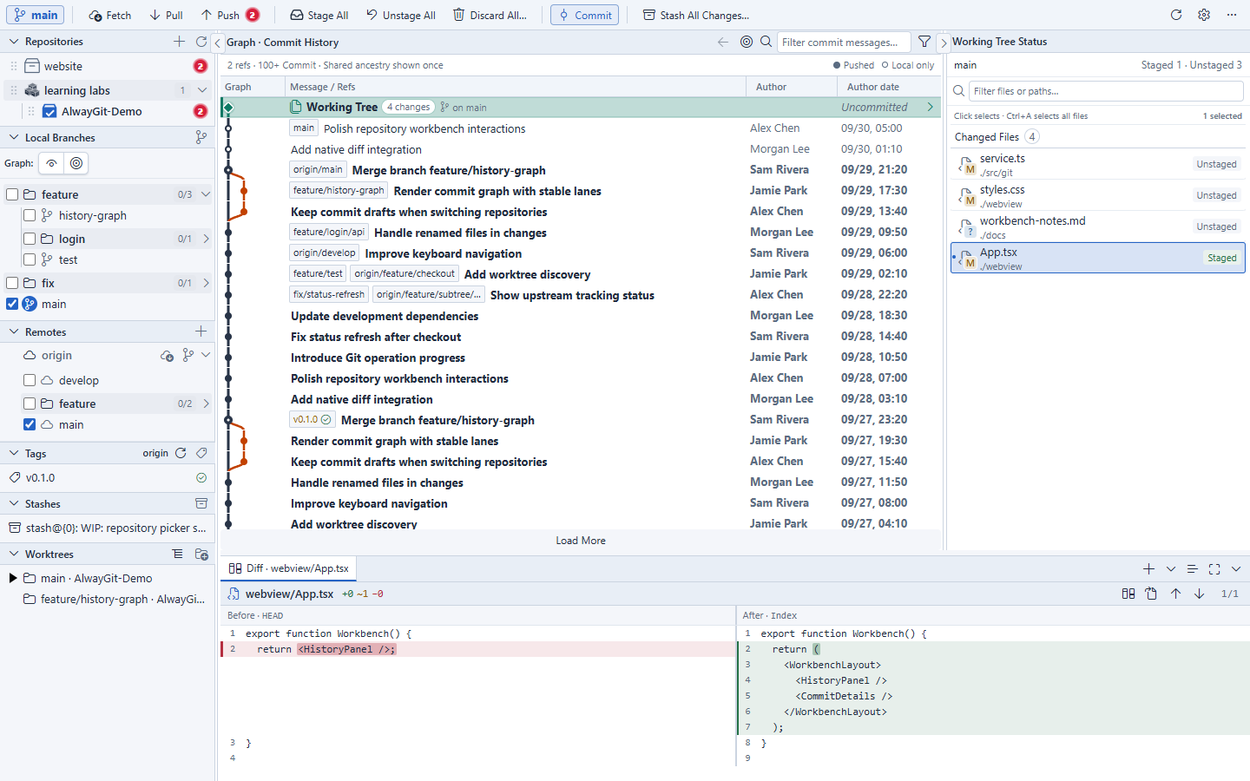
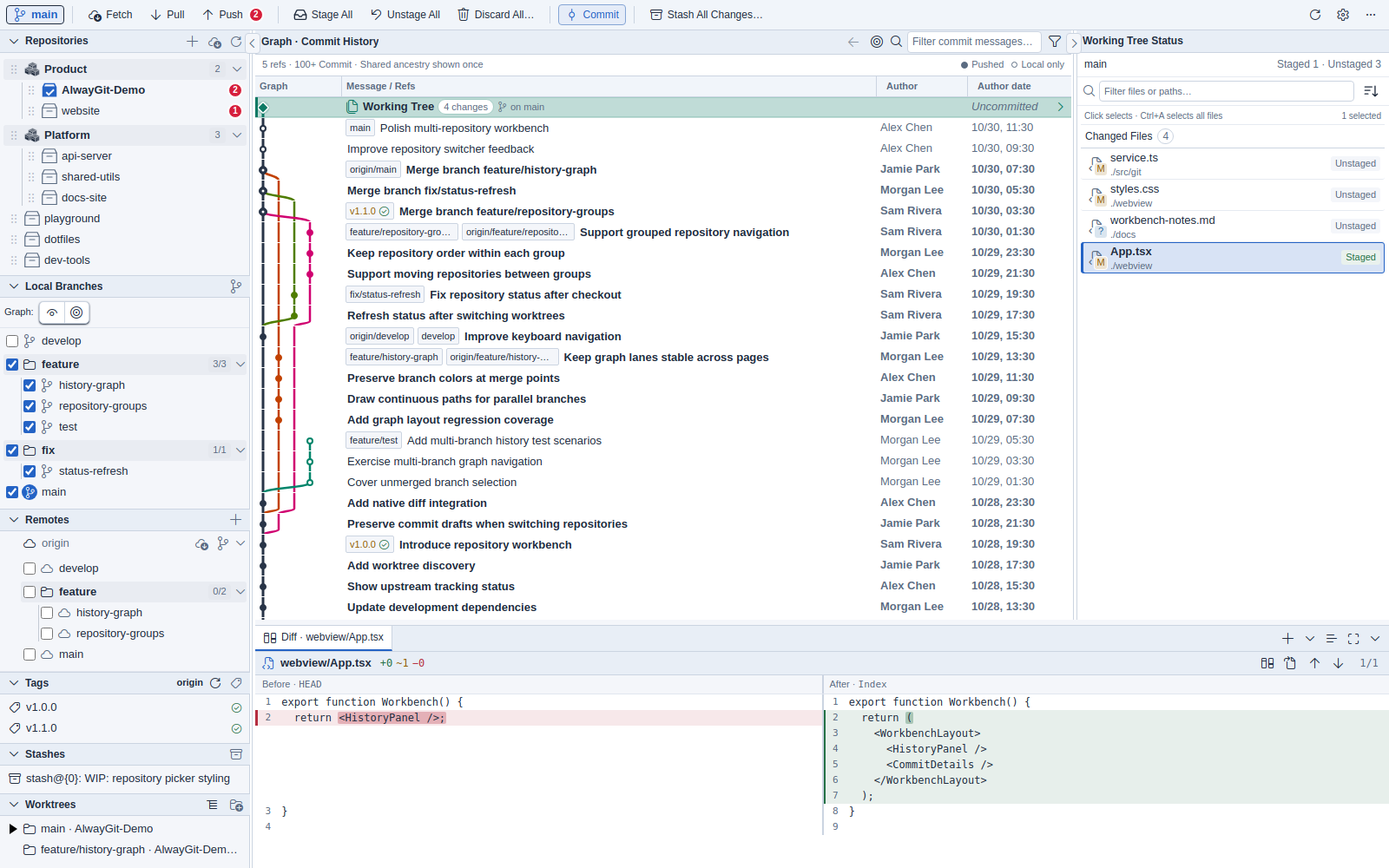
docs: 丰富多仓库与并行分支演示截图

diff --git a/webview/demo.ts b/webview/demo.ts
@@ -41,7 +41,10 @@ import {
 } from '../src/protocol/workbench-host';
 
 /** Construct sample state only when the explicit Demo transport is used. */
-export function createDemoRequest(emit: (event: HostMessage) => void) {
+export function createDemoRequest(
+  emit: (event: HostMessage) => void,
+  options: { showcase?: boolean } = {},
+) {
   let appliedLocation: string | undefined;
   const noRemoteDemo = new URLSearchParams(location.search).get('noRemote') === '1';
   const rebasePlans = new Map<string, RebasePlan>();
@@ -217,21 +220,178 @@ export function createDemoRequest(emit: (event: HostMessage) => void) {
     commonDir: 'D:\\Examples\\website\\.git',
     name: 'website',
   };
+  // Opt-in documentation scene: keep ordinary Demo operations and their fixtures stable.
+  const repositories: Repository[] = [repo, website];
+  if (options.showcase) {
+    repo.collectionIds = ['product'];
+    website.collectionIds = ['product'];
+    for (const name of [
+      'api-server',
+      'shared-utils',
+      'docs-site',
+      'playground',
+      'dotfiles',
+      'dev-tools',
+    ]) {
+      const root = `D:\\Examples\\${name}`;
+      repositories.push({
+        id: `demo-${name}`,
+        name,
+        root,
+        commonDir: root + '\\.git',
+        ...(['api-server', 'shared-utils', 'docs-site'].includes(name)
+          ? { collectionIds: ['platform'] }
+          : {}),
+      });
+    }
+    // Overlapping feature work keeps a visible parallel region. A short fix and
+    // unmerged work use separate bases instead of turning the graph into serial loops.
+    const paths = [
+      [0, 16, 3, 9, 6, 11, 12, 15, 18],
+      [1, 4, 7, 13, 15],
+      [2, 5, 8, 18],
+      [10, 14, 11],
+    ];
+    for (const path of paths)
+      for (let index = 0; index < path.length - 1; index++)
+        commits[path[index]].parents = [commits[path[index + 1]].oid];
+    commits[3].parents.push(commits[1].oid);
+    commits[9].parents.push(commits[10].oid);
+    commits[6].parents.push(commits[2].oid);
+    const pendingTests = [
+      'Exercise multi-branch graph navigation',
+      'Cover unmerged branch selection',
+    ].map((subject, index) => ({
+      ...commits[17],
+      oid: oid(180 + index),
+      parents: [index === 0 ? oid(181) : commits[12].oid],
+      subject,
+      pushed: false,
+    }));
+    commits[17].parents = [pendingTests[0].oid];
+    commits.push(...pendingTests);
+    const titles = [
+      'Polish multi-repository workbench',
+      'Keep graph lanes stable across pages',
+      'Support grouped repository navigation',
+      'Merge branch feature/history-graph',
+      'Preserve branch colors at merge points',
+      'Keep repository order within each group',
+      'Merge branch feature/repository-groups',
+      'Draw continuous paths for parallel branches',
+      'Support moving repositories between groups',
+      'Merge branch fix/status-refresh',
+      'Fix repository status after checkout',
+      'Improve keyboard navigation',
+      'Add native diff integration',
+      'Add graph layout regression coverage',
+      'Refresh status after switching worktrees',
+      'Preserve commit drafts when switching repositories',
+      'Improve repository switcher feedback',
+      'Add multi-branch history test scenarios',
+      'Introduce repository workbench',
+    ];
+    titles.forEach((subject, index) => {
+      commits[index].subject = subject;
+      commits[index].pushed = index !== 0 && index !== 16 && index !== 17;
+    });
+    // Align timestamps with the topological display order, including merge parents.
+    orderHistory(commits, [commits[0].oid, commits[17].oid]).forEach((commit, index) => {
+      commit.timestamp = 1793331000 - index * 7200;
+    });
+    const refs = (demoSnapshot.refs = demoSnapshot.refs.filter(
+      (ref) =>
+        ref.name !== 'feature/login/api' &&
+        (ref.kind !== 'remote' || ['origin/main', 'origin/develop'].includes(ref.name)),
+    ));
+    Object.assign(
+      refs.find((ref) => ref.name === 'feature/history-graph')!,
+      {
+        oid: commits[1].oid,
+        upstream: 'origin/feature/history-graph',
+      },
+    );
+    refs.find((ref) => ref.name === 'feature/test')!.oid = commits[17].oid;
+    refs.find((ref) => ref.name === 'fix/status-refresh')!.oid = commits[10].oid;
+    refs.find((ref) => ref.name === 'origin/main')!.oid = commits[3].oid;
+    refs.find((ref) => ref.name === 'origin/develop')!.oid = commits[11].oid;
+    Object.assign(
+      refs.find((ref) => ref.name === 'v0.1.0')!,
+      {
+        name: 'v1.0.0',
+        fullName: 'refs/tags/v1.0.0',
+        oid: commits[18].oid,
+        refOid: commits[18].oid,
+      },
+    );
+    refs.push(
+      {
+        name: 'develop',
+        fullName: 'refs/heads/develop',
+        kind: 'local',
+        oid: commits[11].oid,
+        upstream: 'origin/develop',
+      },
+      {
+        name: 'feature/repository-groups',
+        fullName: 'refs/heads/feature/repository-groups',
+        kind: 'local',
+        oid: commits[2].oid,
+        upstream: 'origin/feature/repository-groups',
+      },
+      {
+        name: 'origin/feature/history-graph',
+        fullName: 'refs/remotes/origin/feature/history-graph',
+        kind: 'remote',
+        oid: commits[1].oid,
+      },
+      {
+        name: 'origin/feature/repository-groups',
+        fullName: 'refs/remotes/origin/feature/repository-groups',
+        kind: 'remote',
+        oid: commits[2].oid,
+      },
+      {
+        name: 'v1.1.0',
+        fullName: 'refs/tags/v1.1.0',
+        kind: 'tag',
+        oid: commits[6].oid,
+        refOid: commits[6].oid,
+      },
+    );
+    demoSnapshot.worktrees[1].head = commits[1].oid;
+  }
   const publishedTags = new Map<string, Record<string, string>>();
   const demoStores: Record<
     string,
     { snapshot: Snapshot; commits: Commit[]; saved: Map<string, Snapshot['changes']> }
   > = Object.fromEntries(
-    [repo, website].map((repository) => [
+    repositories.map((repository, index) => [
       repository.id,
       {
         snapshot: {
           ...structuredClone(demoSnapshot),
           repository,
+          ...(options.showcase && index > 0
+            ? {
+                head: commits[index === 1 ? 16 : 3].oid,
+                ahead: index === 1 ? 1 : 0,
+                changes: index % 2 ? structuredClone(demoSnapshot.changes).slice(1, 2) : [],
+                refs: demoSnapshot.refs.map((ref) => ({
+                  ...ref,
+                  ...(ref.kind === 'local' && ref.name === 'main'
+                    ? { oid: commits[index === 1 ? 16 : 3].oid }
+                    : {}),
+                })),
+              }
+            : {}),
           remotes: ['origin'],
           worktrees: demoSnapshot.worktrees.map((tree, i) => ({
             ...tree,
             path: i ? repository.root + '-graph' : repository.root,
+            ...(options.showcase && index > 0 && i === 0
+              ? { head: commits[index === 1 ? 16 : 3].oid }
+              : {}),
           })),
         },
         commits: structuredClone(commits),
@@ -311,8 +471,18 @@ export function createDemoRequest(emit: (event: HostMessage) => void) {
       delete store.snapshot.upstream;
       delete store.snapshot.pushTarget;
     }
-  const demoCollections: RepositoryCollection[] = [];
-  let demoOrder: RepositoryOrder | undefined;
+  const demoCollections: RepositoryCollection[] = options.showcase
+    ? [
+        { id: 'product', name: 'Product' },
+        { id: 'platform', name: 'Platform' },
+      ]
+    : [];
+  let demoOrder: RepositoryOrder | undefined = options.showcase
+    ? {
+        root: ['collection:product', 'collection:platform'],
+        collections: {},
+      }
+    : undefined;
   const storedResetMode = localStorage.getItem('alwaygit.demo-defaultResetMode');
   const storedPullStrategy = localStorage.getItem('alwaygit.demo-defaultPullStrategy');
   const storedConcurrency = Number(localStorage.getItem('alwaygit.demo-batchFetchConcurrency'));
@@ -573,7 +743,7 @@ export function createDemoRequest(emit: (event: HostMessage) => void) {
           }
         : effectiveDemoOperationSettings();
     }
-    if (method === 'repositories') return [repo, website];
+    if (method === 'repositories') return repositories;
     if (method === 'pickRepositoryDirectory') return 'D:\\Examples';
     if (method === 'discoverRepositories') {
       const scanId = (payload as { scanId: string }).scanId;
@@ -606,7 +776,7 @@ export function createDemoRequest(emit: (event: HostMessage) => void) {
     if (method === 'repositoryCollections') return demoCollections;
     if (method === 'repositoryOrder' || method === 'reorderRepository') {
       demoOrder = reconcileRepositoryOrder(
-        groupRepositories([repo, website]),
+        groupRepositories(repositories),
         demoCollections,
         demoOrder,
       );
@@ -623,12 +793,12 @@ export function createDemoRequest(emit: (event: HostMessage) => void) {
     if (method === 'updateRepositoryMemberships' || method === 'moveRepositoryRows') {
       // Preserve the old order before changing memberships so new occurrences append consistently.
       demoOrder = reconcileRepositoryOrder(
-        groupRepositories([repo, website]),
+        groupRepositories(repositories),
         demoCollections,
         demoOrder,
       );
       let changed = 0;
-      for (const group of groupRepositories([repo, website])) {
+      for (const group of groupRepositories(repositories)) {
         const next = new Set(group.collectionIds);
         if (method === 'updateRepositoryMemberships') {
           const { keys, changes } = payload as RepositoryMembershipUpdate;
@@ -657,7 +827,7 @@ export function createDemoRequest(emit: (event: HostMessage) => void) {
         changed++;
       }
       demoOrder = reconcileRepositoryOrder(
-        groupRepositories([repo, website]),
+        groupRepositories(repositories),
         demoCollections,
         demoOrder,
       );

diff --git a/docs/VALIDATION.en.md b/docs/VALIDATION.en.md
@@ -73,7 +73,7 @@ On 2026-10-05, with user permission, real-window validation ran on local VS Code
 
 First identify affected operation scenarios. Changes to surrounding toolbars, icons, or spacing usually require only updated entry text and a screenshot-difference note. When screenshots really need updating, run `npm run build` once, then `node scripts/capture-manual.mjs`. The script uses a headless browser and real workbench components from the current build. Isolated sample fixtures answer every RPC; the UI performs no Git, Shell, native editor, window action, or remote connection. The script uses a read-only Git command only to record the source baseline. It fixes the default theme (a white interface following a light host), language, font size, viewport, time zone, and sample time. Each scenario has an independent browser context. Dialogs are cropped to their bounds for readable text; narrow-sidebar pictures demonstrate component adaptation and do not constitute real VS Code container acceptance.
 
-Previews go to ignored `artifacts/manual-capture/`. Use `--only=NN` for one scenario, `--only=03,05,07` for several specific scenarios, or `--from=NN` to resume from a scenario; none changes manual images. Ordinary scenes leave the product's file-list default intact. Figure 49 explicitly uses split mode and captures the file-operation area; Figure 50 captures the Diff with its boundary notice. Figures 51–52 share one AlwayGit-Demo snapshot for a horizontal tree with change markers and a complete radial tree. READMEs and manuals reuse these images without adding figures for other layout or preference combinations. The capture manifest records the actual capture date in Asia/Shanghai as `capturedAt`, the fixed sample clock as `sampleTime`, the source baseline, and selected scenes. The sample clock is not the capture date. For a partial update, complete and inspect all selected scenes, then copy only the corresponding PNGs to `docs/images/user-manual/`, retaining clear operation regions where possible. Do not copy everyday acceptance previews into the maintained directory. Only for an explicit user request or a dedicated manual redesign, use `node scripts/capture-manual.mjs --write` for full capture. Maintained images are replaced only after every scenario succeeds; partial capture cannot use `--write`. Scenario definitions live in this script; do not manually retain old image variants.
+Previews go to ignored `artifacts/manual-capture/`. Use `--only=NN` for one scenario, `--only=03,05,07` for several specific scenarios, or `--from=NN` to resume from a scenario; none changes manual images. Ordinary scenes leave the product's file-list default intact. Figure 49 explicitly uses split mode and captures the file-operation area; Figure 50 captures the Diff with its boundary notice. Figures 51–52 share one AlwayGit-Demo snapshot for a horizontal tree with change markers and a complete radial tree. READMEs and manuals reuse these images without adding figures for other layout or preference combinations. The capture manifest records the actual capture date in Asia/Shanghai as `capturedAt`, the fixed sample clock as `sampleTime`, the source baseline, and selected scenes. The sample clock is not the capture date. For a partial update, complete and inspect all selected scenes, then copy only the corresponding PNGs to `docs/images/user-manual/`, retaining clear operation regions where possible. Do not copy everyday acceptance previews into the maintained directory. Only for an explicit user request or a dedicated manual redesign, use `node scripts/capture-manual.mjs --write` for full capture. Maintained images are replaced only after every scenario succeeds; partial capture cannot use `--write`. Figures 03, 06, and 14 share an opt-in showcase data scene with eight repositories (two and three in groups, three ungrouped), six local branches, four remote branches, two Tags, one Stash, and two Worktrees. The checked branches are main, feature/history-graph, feature/repository-groups, fix/status-refresh, and feature/test. The two feature branches have four and three commits, alongside a two-commit fix and three unmerged commits. Each side path starts from a different ordinary mainline commit. The core relationships span 21 commits and include four concurrent lanes. Capture uses a 1600 × 1000 viewport and 13 px text, checking repository and group-member counts, checked refs, and the absence of vertical sidebar overflow. Ordinary Demo and other figures retain their existing data. Scenario definitions live in this script; do not manually retain old image variants.
 
 Both manuals share images, section anchors, and screenshot-source notes. New images must be referenced by both editions. When updating, check each affected image's actual entry point, object, count, direction, and accompanying text; delete invalid or unreferenced resources and retain real PNG encoding. Source notes record the actual capture date and source version. Partial replacements record new provenance by image number, retain the old source for other images, and note differences in surrounding UI. Demo feedback is not evidence of real Git or terminal execution. Native VS Code shell screenshots or host-behavior acceptance require separate visible-window permission under the project rules.
 
@@ -264,6 +264,7 @@ The table retains checks actually performed for different versions. Old results 
 
 | Evidence scope | Date / version | Recorded results and limitations |
 | --- | --- | --- |
+| Multi-repository overview with merged and unmerged branches | 2026-11-16 / source 1.10.0 (c422b40 plus sample-data, graph-color, and lane-collapse changes) | Replaced only figures 03, 06, and 14; the other 49 image hashes are unchanged. At 1600 × 1000 with 13 px text, capture checks passed for eight repositories arranged 2+3+3, five checked branches, and no vertical sidebar overflow. Also verified six local branches, four remote branches, and Tag, Stash, and Worktree counts, Graph paths for five branches, ancestry, timestamps, and push status. The two feature branches, short fix, and unmerged work contain four, three, two, and three independent commits, respectively, with distinct ordinary mainline bases. The core relationships span 21 commits, include four concurrent lanes, and use distinct color slots for the five branch paths. Thirty-two targeted checks passed for collapse clearance, layout, SVG, and help content, including all three row densities and thicker hovered paths, preventing unrelated curves from grazing adjacent nodes. All three independent feature/test commits are visible in the first screen and absent from main history. Thirty-four targeted checks passed for graph layout, SVG, Demo history, help content, and 100,000-commit paged performance, covering distinct new-path colors, palette rotation, and pagination state; all 17 layout checks passed after strengthening coverage. Types, 2068 bilingual resources, eight Demo tests, three help-content tests, script syntax/format checks, production build, and final Webview build passed. Headless Help checks cover all 52 images in both languages and offline navigation. Checked 317 local references across 12 Markdown files, bilingual anchors, and shared images. Sample RPC does not establish real Git, remote, or native-host acceptance. No full suite, visible-window tests, VSIX packaging, or installation |
 | Bilingual documentation alignment and six operation-figure updates | 2026-11-07 / source 1.8.0 (UI baseline b719d03) | Completed the configuration index and aligned setting scopes, compensation polling, and Abort recovery boundaries; added direct Batch Fetch and Stop task entries. Replaced only figures 26, 35, 37, 45, 47, and 48, visually checking default Rebase, Git settings, loaded Reflog Diff, and footer actions. The other 46 file hashes are unchanged; all 52 PNGs are valid and referenced by both editions. Types, 2051 bilingual resources, three help-content tests, capture syntax/format checks, the initial extension/Webview build, and final Webview build passed. Headless Help covers all 52 images in both languages, offline CSP, section navigation, search, narrow layouts, and focus return. Checked 311 local references across 12 Markdown files, bilingual anchors, and diff formatting. Actual capture date and fixed sample clock are recorded separately; sample RPC does not establish real Git, remote, or native-host acceptance. No full functional suite, visible-window tests, VSIX packaging, or local installation |
 | File-tree state, preferences and defaults | 2026-10-30 / source 1.8.0 | Type checks, 2001 bilingual resources, extension and Webview builds passed. Final protocol/cache/host/persistence checks: 72 tests passed; main-workbench state: 133 passed. Headless tree-canvas covers full reconstruction, zoom/pan, change focus/search, preview reading positions, draft restoration, Apply/Cancel, main-settings persistence and a 420px window. Headless Diff regression covers ordinary, Commit and image previews and navigation. Preview screenshots remain in ignored artifacts. No native VS Code cross-window drag, full suite, VSIX packaging or local installation; reconstruction coverage does not establish native window-move acceptance |
 | Common Git manual and README file-tree figures | 2026-10-30 / source 1.8.0 (capture baseline e7b7e0f) | Updated bilingual entry points and reading behavior, shortened display details, and retained common Git workflows. Added only two PNGs from one AlwayGit-Demo snapshot, totaling 171,529 bytes; both READMEs, manuals, and offline help reuse them. Original 50 figures retained. Three help-content tests, capture syntax/format checks, production and final Webview builds, and headless Help checks passed, covering 52 images in both languages, offline assets, and help navigation. Visually reviewed both new figures and checked 297 local references across 12 Markdown documents plus diff formatting. Sample RPC is not real Git/remote/native-host acceptance. No full suite, visible-window tests, VSIX packaging, or installation |

diff --git a/docs/USER_MANUAL.en.md b/docs/USER_MANUAL.en.md
@@ -8,7 +8,7 @@ Select More actions → Help & Guide, with its question-mark icon, in the upper-
 
 <a id="screenshot-notes"></a>
 
-**About the screenshots:** Both editions share the same images. Retained screenshots may show a Copy Paths toolbar button or omit the sort icon; see [file list settings](#file-list-modes) for the current controls. Figures 26, 35, 37, 45, 47, and 48 were selectively updated on 2026-11-07 from the 1.8.0 source build (UI baseline `b719d03`), reflecting default Rebase, Git-operation settings, a fully loaded Reflog Diff, and footer actions for recovery branches, interactive Rebase, and LFS rule application. Their sample clock is fixed at 2026-10-30 and does not indicate the capture date. Figures 51–52 share one `AlwayGit-Demo` sample snapshot and are reused in both READMEs. Figure 51 was updated on 2026-10-30 from the 1.8.0 source build (`186779a` plus this Show changes only change), showing only changed files and their necessary directories. Figure 52 retains the complete radial tree captured the same day from baseline `e7b7e0f`. Figures 03, 06, and 14 were captured on 2026-10-29 from the 1.8.0 source build (UI baseline `0c956b5`), showing two topic commits on the Merge side lane, 18 px lane spacing, continuous path colors, and node outlines matching their paths. Figures 04–05, 07, 09, 11, 13, 18, 23, 29, 38, 40–44, 46, and 49–50 were captured on 2026-10-28 from the 1.8.0 source build (UI baseline `67d3097`), reflecting the default unified list, current selection states, and Diff styles. Figure 49 explicitly demonstrates optional split mode; Figure 50 shows the navigation boundary notice. Figures 05 and 38 retain their original settings scenes and omit the later path-display and wrapping options; use the current interface for those reading preferences. Other figures retain their 2026-10-24 source. Some still show the old sample name `AlwayGit`, original paths, and surrounding toolbar; the main sample repository is now `AlwayGit-Demo`. These differences do not change the dialog operations illustrated. Some retained figures still show the former Load More entry; current history loads automatically near the bottom without clicking it. Background Graphs in other images retain the original sample history; see [history filtering](#section-04-01) for how to read the current graph. Images show actual Workbench components with an English interface, the default theme on a light host, and sample data; the language page previews Chinese. Repository, author, Commit ID, history, Git-operation, and terminal states come from isolated sample RPC data, not real project records or validation of real remotes, authentication, Git, or terminal execution. The narrow sidebar figure demonstrates region navigation at that viewport size. Images exclude native VS Code chrome, native confirmations, and system folder pickers. Your names, paths, Commit IDs, and saved interface preferences may differ. See [Validation](VALIDATION.en.md#manual-screenshots) for the capture process and verification scope.
+**About the screenshots:** Both editions share the same images. Retained screenshots may show a Copy Paths toolbar button or omit the sort icon; see [file list settings](#file-list-modes) for the current controls. Figures 26, 35, 37, 45, 47, and 48 were selectively updated on 2026-11-07 from the 1.8.0 source build (UI baseline `b719d03`), reflecting default Rebase, Git-operation settings, a fully loaded Reflog Diff, and footer actions for recovery branches, interactive Rebase, and LFS rule application. Their sample clock is fixed at 2026-10-30 and does not indicate the capture date. Figures 51–52 share one `AlwayGit-Demo` sample snapshot and are reused in both READMEs. Figure 51 was updated on 2026-10-30 from the 1.8.0 source build (`186779a` plus this Show changes only change), showing only changed files and their necessary directories. Figure 52 retains the complete radial tree captured the same day from baseline `e7b7e0f`. Figures 03, 06, and 14 were selectively updated on 2026-11-16 from the 1.10.0 source build (`c422b40` plus the sample-data, graph-color, and lane-collapse changes in this working tree), using a 1600 × 1000 viewport and 13 px text. Eight repositories appear in Product (two), Platform (three), and the ungrouped area (three). Five local branches—main, feature/history-graph, feature/repository-groups, fix/status-refresh, and feature/test—are checked. The two feature branches have four and three commits, with overlapping development and separate merges. A short fix has two commits; feature/test forks from the ordinary mainline commit Add native diff integration and has three independent commits that have not been merged into main. Each of the four side paths starts from a different ordinary mainline commit; the core relationships span 21 commits and include a region with four concurrent lanes. New paths prefer colors not yet allocated, keeping nearby merged and unmerged paths distinct before reuse is necessary. The scene also includes four remote branches, two Tags, one Stash, and two Worktrees. Figures 04–05, 07, 09, 11, 13, 18, 23, 29, 38, 40–44, 46, and 49–50 were captured on 2026-10-28 from the 1.8.0 source build (UI baseline `67d3097`), reflecting the default unified list, current selection states, and Diff styles. Figure 49 explicitly demonstrates optional split mode; Figure 50 shows the navigation boundary notice. Figures 05 and 38 retain their original settings scenes and omit the later path-display and wrapping options; use the current interface for those reading preferences. Other figures retain their 2026-10-24 source. Some still show the old sample name `AlwayGit`, original paths, and surrounding toolbar; the main sample repository is now `AlwayGit-Demo`. These differences do not change the dialog operations illustrated. Some retained figures still show the former Load More entry; current history loads automatically near the bottom without clicking it. Background Graphs in other images retain the original sample history; see [history filtering](#section-04-01) for how to read the current graph. Images show actual Workbench components with an English interface, the default theme on a light host, and sample data; the language page previews Chinese. Repository, author, Commit ID, history, Git-operation, and terminal states come from isolated sample RPC data, not real project records or validation of real remotes, authentication, Git, or terminal execution. The narrow sidebar figure demonstrates region navigation at that viewport size. Images exclude native VS Code chrome, native confirmations, and system folder pickers. Your names, paths, Commit IDs, and saved interface preferences may differ. See [Validation](VALIDATION.en.md#manual-screenshots) for the capture process and verification scope.
 
 ## Read by task
 
@@ -133,7 +133,7 @@ Copy Current State to a New Editor Tab copies the repository, draft, and browsin
 
 ### Understand the four areas
 
-![Figure 03 Current Workbench with repositories and refs, history, details, and the Diff / terminal dock](images/user-manual/figure-03.png)
+![Figure 03 Workbench overview with eight repositories, two project groups, five checked branches in the commit graph, showing parallel development and an unmerged branch, working-tree status, and a side-by-side Diff](images/user-manual/figure-03.png)
 
 | Area | Purpose | What to check first |
 | --- | --- | --- |
@@ -1023,7 +1023,7 @@ Click list whitespace or press Esc to clear the blue selection while retaining a
 
 **Caution:** Groups organize the navigation only. They do not move directories on disk or combine the contents of different repositories.
 
-![Figure 06 AlwayGit-Demo in learning labs with its current-repository marker and blue action selection, plus the separate website repository entry](images/user-manual/figure-06.png)
+![Figure 06 Product and Platform groups plus three ungrouped repositories; the AlwayGit-Demo current-repository marker is independent of its blue action selection](images/user-manual/figure-06.png)
 
 <a id="section-02-03"></a>
 

diff --git a/docs/USER_MANUAL.zh-CN.md b/docs/USER_MANUAL.zh-CN.md
@@ -8,7 +8,7 @@
 
 <a id="screenshot-notes"></a>
 
-**截图说明：** 两版手册共用图片。保留截图中的文件工具栏可能仍显示复制路径按钮或缺少排序入口，当前操作见[文件列表设置](#file-list-modes)。图 26、35、37、45、47、48 于 2026-11-07 从 1.8.0 源码构建局部更新（UI 基线 `b719d03`），同步默认 Rebase、Git 操作设置、已加载完成的 Reflog Diff，以及恢复分支、交互式 Rebase 和 LFS 规则应用的底部操作入口；图内示例时间固定为 2026-10-30，不代表采集日期。图 51–52 使用同一份 `AlwayGit-Demo` 示例快照，两版 README 复用这两张图片。图 51 于 2026-10-30 从 1.8.0 源码构建更新（基于 `186779a` 及本次“只显示变更”修改），只展示变更文件及其必要目录；图 52 保留同日基线 `e7b7e0f` 的完整径向树。图 03、06、14 于 2026-10-29 从 1.8.0 源码构建采集（UI 基线 `0c956b5`），展示两个功能分支提交位于侧线的 Merge 图、18 px 泳道间距、连续路径颜色及与路径同色的节点描边。图 04–05、07、09、11、13、18、23、29、38、40–44、46、49–50 于 2026-10-28 从 1.8.0 源码构建采集（UI 基线 `67d3097`），同步默认统一文件列表、当前选择状态和 Diff 样式；图 49 专门展示可选分组模式，图 50 展示首尾跳转提示。图 05、38 保留原设置场景，未展示后来增加的路径显示与换行选项；这些阅读偏好以当前界面为准。其余图片保留 2026-10-24 来源，部分仍显示旧示例名 `AlwayGit`、原路径及外围工具栏，当前主示例仓库名为 `AlwayGit-Demo`；这些差异不改变图中所说明的弹窗操作。部分保留图片仍显示旧的 Load More 入口，当前历史在接近底部时自动加载，无需点击该按钮。其他图片中的背景 Graph 保留原示例历史；当前图形的阅读方式见[历史筛选](#section-04-01)。图片展示实际工作台组件，使用英文界面、默认主题在浅色宿主下的白色外观及示例数据；语言页展示中文预览。仓库、作者、提交 ID、历史、Git 操作和终端状态均由隔离示例 RPC 数据构造，不对应真实项目记录，也不代表真实远端、认证、Git 或终端执行验收。窄侧栏图是对应尺寸下的区域导航演示；图片不含 VS Code 原生外壳、原生确认框或系统目录选择器。实际项目的名称、路径、提交 ID 和已保存的界面偏好可以不同；采集与验证范围见[验证说明](VALIDATION.md#manual-screenshots)。
+**截图说明：** 两版手册共用图片。保留截图中的文件工具栏可能仍显示复制路径按钮或缺少排序入口，当前操作见[文件列表设置](#file-list-modes)。图 26、35、37、45、47、48 于 2026-11-07 从 1.8.0 源码构建局部更新（UI 基线 `b719d03`），同步默认 Rebase、Git 操作设置、已加载完成的 Reflog Diff，以及恢复分支、交互式 Rebase 和 LFS 规则应用的底部操作入口；图内示例时间固定为 2026-10-30，不代表采集日期。图 51–52 使用同一份 `AlwayGit-Demo` 示例快照，两版 README 复用这两张图片。图 51 于 2026-10-30 从 1.8.0 源码构建更新（基于 `186779a` 及本次“只显示变更”修改），只展示变更文件及其必要目录；图 52 保留同日基线 `e7b7e0f` 的完整径向树。图 03、06、14 于 2026-11-16 从 1.10.0 源码构建局部更新（基于 `c422b40` 及本次工作区的演示数据、配色与收拢曲线修改），采用 1600 × 1000 画布与 13 px 字号：8 个仓库分布在 Product（2 个）、Platform（3 个）及未分组区域（3 个），勾选 main、feature/history-graph、feature/repository-groups、fix/status-refresh、feature/test 五个本地分支：两条功能分支分别有四个和三个提交，展示重叠的并行开发与先后合并；短修复分支有两个提交，feature/test 从主线普通提交 Add native diff integration 分出，保留三个尚未合入 main 的独立提交。四条侧线从不同的普通主线提交分出，核心关系共 21 条提交，局部有四条同时延伸的轨道；新路径优先使用尚未分配的颜色，避免相邻不同路径过早同色；另保留四个远程分支、两个 Tag、一个 Stash 和两个 Worktree。图 04–05、07、09、11、13、18、23、29、38、40–44、46、49–50 于 2026-10-28 从 1.8.0 源码构建采集（UI 基线 `67d3097`），同步默认统一文件列表、当前选择状态和 Diff 样式；图 49 专门展示可选分组模式，图 50 展示首尾跳转提示。图 05、38 保留原设置场景，未展示后来增加的路径显示与换行选项；这些阅读偏好以当前界面为准。其余图片保留 2026-10-24 来源，部分仍显示旧示例名 `AlwayGit`、原路径及外围工具栏，当前主示例仓库名为 `AlwayGit-Demo`；这些差异不改变图中所说明的弹窗操作。部分保留图片仍显示旧的 Load More 入口，当前历史在接近底部时自动加载，无需点击该按钮。其他图片中的背景 Graph 保留原示例历史；当前图形的阅读方式见[历史筛选](#section-04-01)。图片展示实际工作台组件，使用英文界面、默认主题在浅色宿主下的白色外观及示例数据；语言页展示中文预览。仓库、作者、提交 ID、历史、Git 操作和终端状态均由隔离示例 RPC 数据构造，不对应真实项目记录，也不代表真实远端、认证、Git 或终端执行验收。窄侧栏图是对应尺寸下的区域导航演示；图片不含 VS Code 原生外壳、原生确认框或系统目录选择器。实际项目的名称、路径、提交 ID 和已保存的界面偏好可以不同；采集与验证范围见[验证说明](VALIDATION.md#manual-screenshots)。
 
 ## 按任务阅读
 
@@ -133,7 +133,7 @@ AlwayGit 把 Git 的仓库导航、提交历史、文件状态与只读差异放
 
 ### 认识四个区域
 
-![图 03 当前工作台：仓库与引用、历史、详情，以及底部 Diff／终端标签面板](images/user-manual/figure-03.png)
+![图 03 工作台全景：8 个仓库、两个项目分组、五个勾选分支的提交图（含并行开发与未合并分支），以及工作区状态和并排 Diff](images/user-manual/figure-03.png)
 
 | 区域 | 用途 | 先看什么 |
 | --- | --- | --- |
@@ -1023,7 +1023,7 @@ Tags 列表合并显示本地标签和仅存在于所选远端的标签，标题
 
 **注意：** 分组只组织导航，不移动磁盘目录，也不会合并不同仓库的内容。
 
-![图 06 learning labs 分组中的 AlwayGit-Demo 当前仓库标记与蓝色操作选择，以及独立的 website 仓库入口](images/user-manual/figure-06.png)
+![图 06 Product 与 Platform 分组及三个未分组仓库；AlwayGit-Demo 的当前仓库标记与蓝色操作选择相互独立](images/user-manual/figure-06.png)
 
 <a id="section-02-03"></a>
 

diff --git a/README.md b/README.md
@@ -6,7 +6,7 @@ AlwayGit is a graphical Git workbench for VS Code editor tabs, the Primary Sideb
 
 ![AlwayGit Workbench showing repository and branch navigation, commit history, working-tree status, and a side-by-side file diff](docs/images/user-manual/figure-03.png)
 
-Workbench overview rendered with real UI components and an example repository. See the [user manual's screenshot notes](docs/USER_MANUAL.en.md#screenshot-notes) for capture details. Click the image to view it at full size.
+The overview shows eight repositories, two project groups, a five-branch commit graph showing parallel development and an unmerged branch, working-tree status, and a side-by-side diff, rendered with real UI components and sample data. See the [user manual's screenshot notes](docs/USER_MANUAL.en.md#screenshot-notes) for capture details. Click the image to view it at full size.
 
 Commit snapshots also offer visual file trees: the horizontal view shows where changes sit in the directory hierarchy, and the radial view shows the same revision's overall structure. Both figures use the manual's `AlwayGit-Demo` sample data.
 
